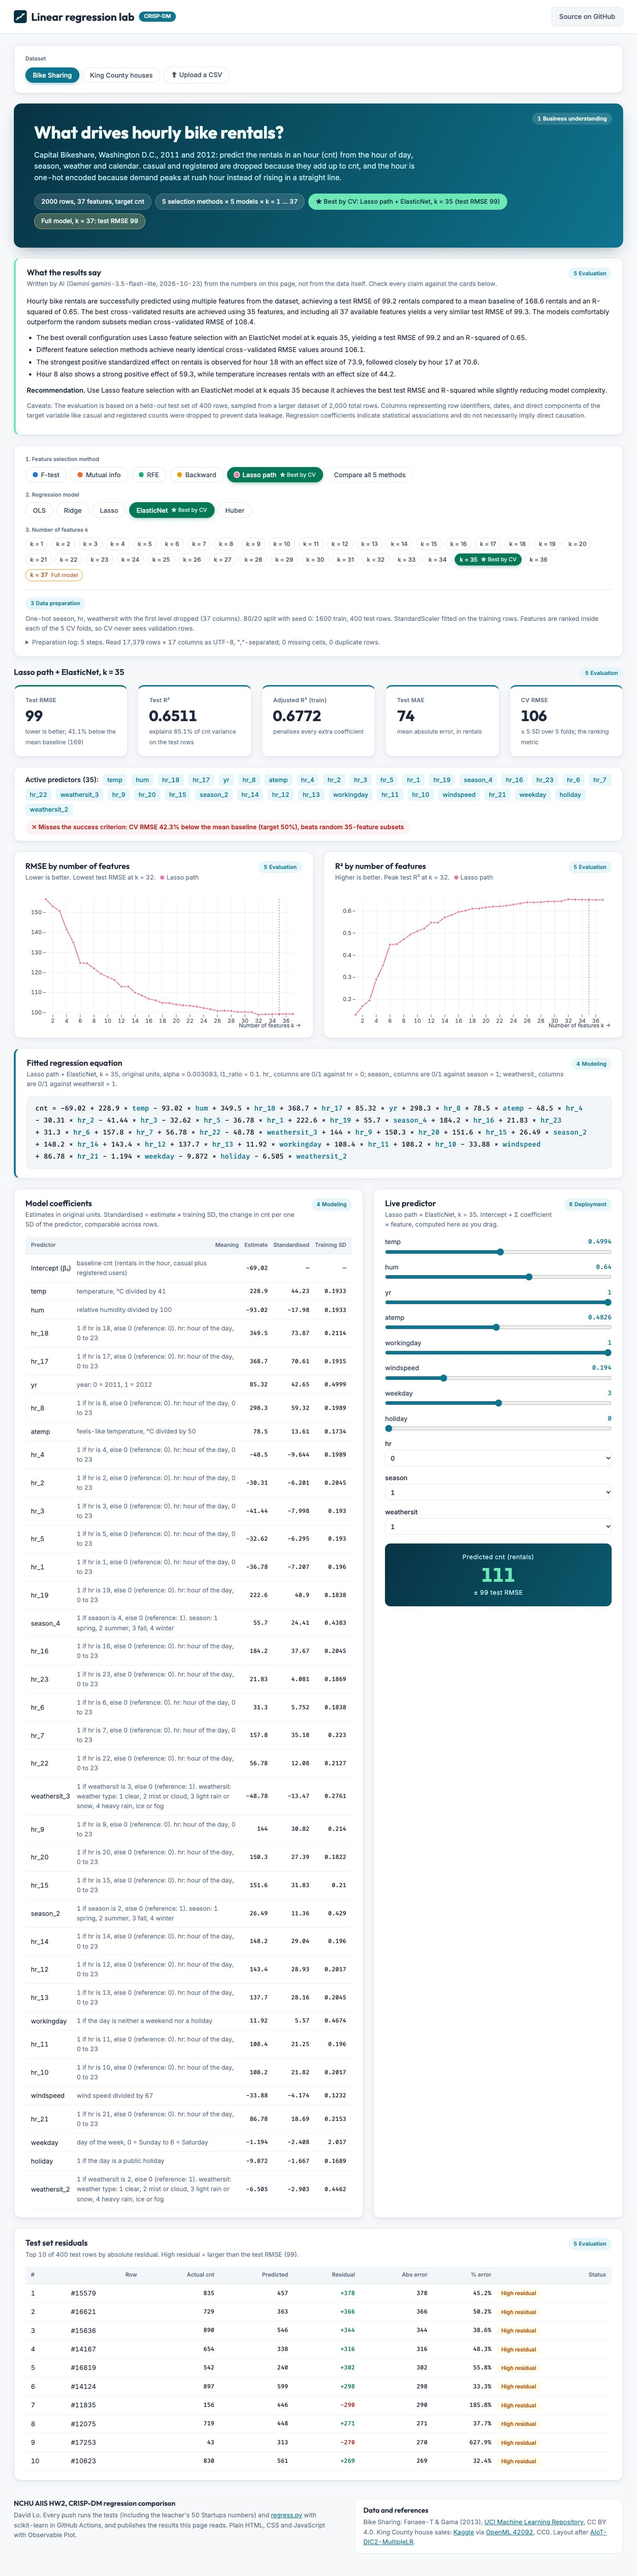
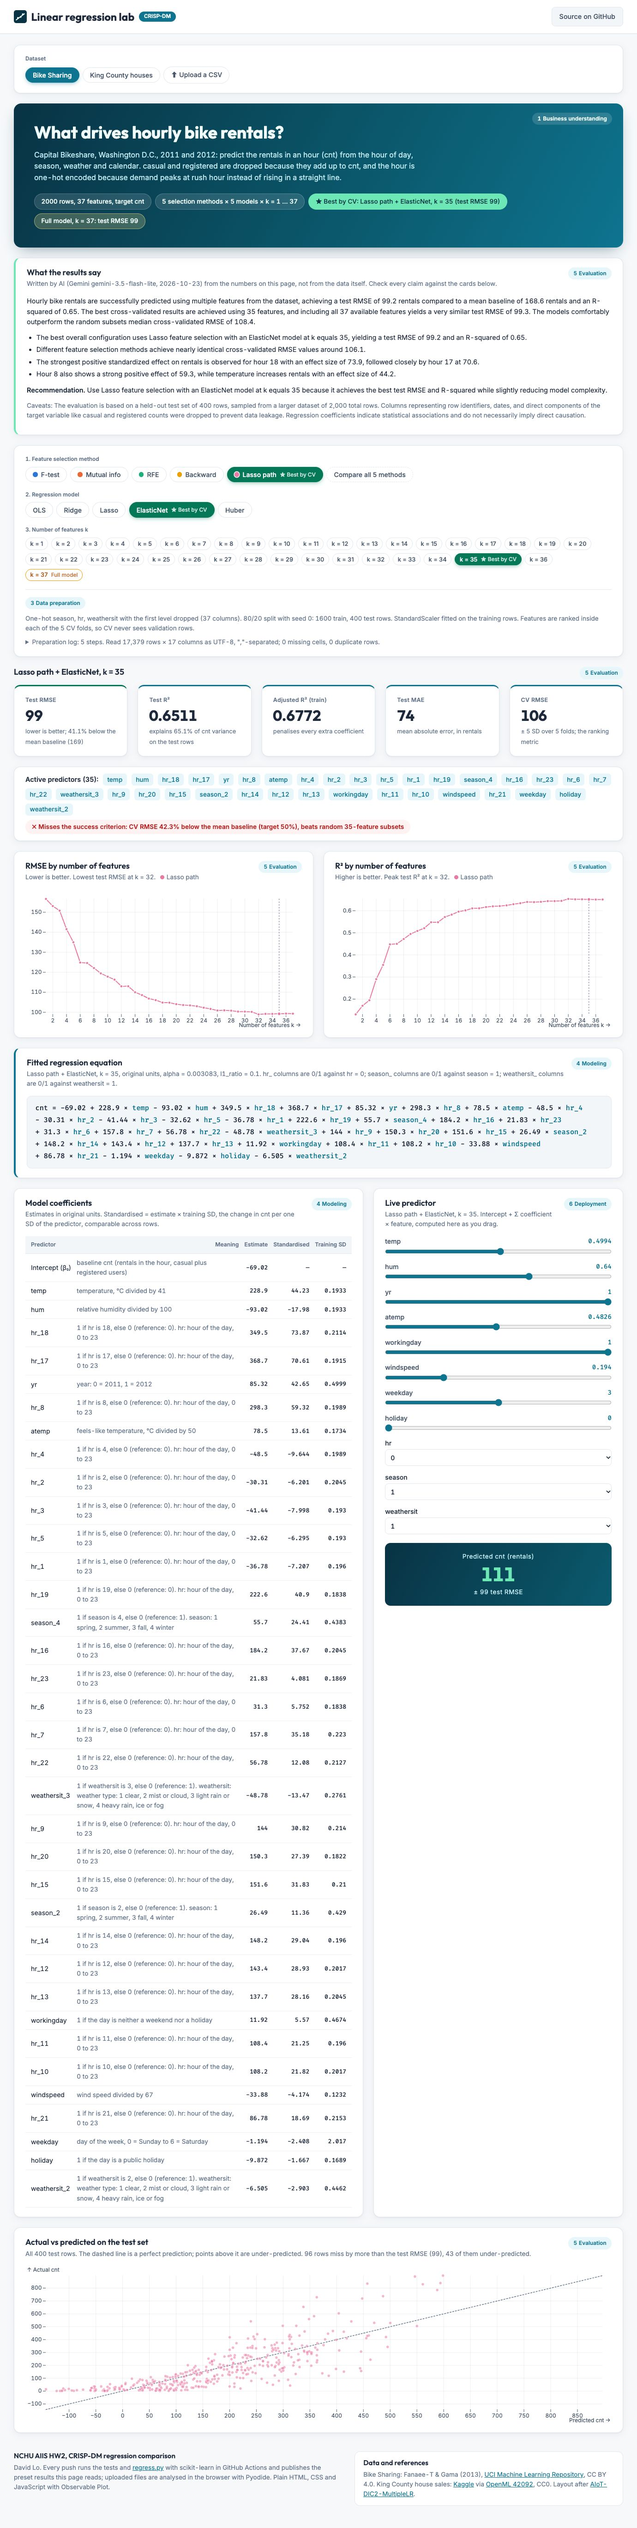
feat: actual vs predicted scatter replaces the ten-row residual table

diff --git a/web/app.js b/web/app.js
@@ -129,11 +129,15 @@ function renderModel(d, a) {
   $("coefs").innerHTML = table(["Predictor", "Meaning", "Estimate", "Standardised", "Training SD"],
     [[td("Intercept (β₀)", "txt"), td(`baseline ${esc(d.target)} (${esc(desc(d.target))})`, "txt muted"), td(sig(a.intercept)), td("—"), td("—")],
       ...a.features.map((n, i) => [td(esc(n), "txt"), td(esc(desc(n)), "txt muted"), td(sig(a.coef[i])), td(sig(a.coef[i] * sd(n))), td(sig(sd(n)))])]);
-  const pts = a.top.map(([row, y, p]) => ({ row, y, p, r: y - p }));   // regress.py keeps the 10 largest residuals
-  $("residNote").textContent = `Top 10 of ${d.meta.n_test} test rows by absolute residual. High residual = larger than the test RMSE (${fmt(a.test_rmse)}).`;
-  $("resid").innerHTML = table(["#", "Row", `Actual ${esc(d.target)}`, "Predicted", "Residual", "Abs error", "% error", "Status"],
-    pts.map((x, i) => [td(i + 1, "txt"), td(`#${x.row}`, "txt"), td(fmt(x.y)), td(fmt(x.p)), td(`<span class="${x.r >= 0 ? "pos" : "neg"}">${x.r >= 0 ? "+" : "−"}${fmt(Math.abs(x.r))}</span>`), td(fmt(Math.abs(x.r))), td(x.y ? pct(Math.abs(x.r / x.y)) : "—"),
-      td(Math.abs(x.r) > a.test_rmse ? `<span class="st hi">High residual</span>` : `<span class="st ok">In range</span>`, "txt")]));
+  // actual vs predicted on every test row; the predictions come from this combination's equation, like the live predictor
+  const idx = a.features.map((n) => feats.indexOf(n));
+  const pts = d.x_test.map((row, i) => { const p = a.intercept + idx.reduce((s, j, t) => s + row[j] * a.coef[t], 0); return { y: d.y_test[i], p, r: d.y_test[i] - p }; });
+  const miss = pts.filter((x) => Math.abs(x.r) > a.test_rmse), under = miss.filter((x) => x.r > 0).length;
+  $("residNote").textContent = `All ${pts.length} test rows. The dashed line is a perfect prediction; points above it are under-predicted. ${miss.length} rows miss by more than the test RMSE (${fmt(a.test_rmse)}), ${under} of them under-predicted.`;
+  const all = pts.flatMap((x) => [x.y, x.p]), lo = Math.min(...all), hi = Math.max(...all);
+  chart($("resid"), (w) => Plot.plot({ width: w, height: 340, marginLeft: ml(), style: style(), grid: true, x: { label: `Predicted ${d.target}` }, y: { label: `Actual ${d.target}` },
+    marks: [Plot.line([[lo, lo], [hi, hi]], { stroke: C.ink3, strokeDasharray: "3 3" }),
+      Plot.dot(pts, { x: "p", y: "y", r: 3, fill: C.m[a.method] || C.accent, fillOpacity: 0.55, stroke: C.card, strokeWidth: 0.5, tip: true, title: (x) => `actual ${fmt(x.y)}\npredicted ${fmt(x.p)}\nresidual ${x.r >= 0 ? "+" : "−"}${fmt(Math.abs(x.r))}` })] }));
 }
 
 // ── live predictor: the linear equation evaluated in the browser ─────────────

diff --git a/web/index.html b/web/index.html
@@ -85,7 +85,7 @@
       <section class="card"><header><div><h3>Live predictor</h3><p class="muted" id="deployNote"></p></div><span class="phase"><b>6</b>Deployment</span></header><form class="whatif" id="whatif"></form><div class="prediction" id="prediction" aria-live="polite"></div></section>
     </div>
 
-    <section class="card"><header><div><h3>Test set residuals</h3><p class="muted" id="residNote"></p></div><span class="phase"><b>5</b>Evaluation</span></header><div class="table-wrap" id="resid"></div></section>
+    <section class="card"><header><div><h3>Actual vs predicted on the test set</h3><p class="muted" id="residNote"></p></div><span class="phase"><b>5</b>Evaluation</span></header><div class="chart" id="resid"></div></section>
   </main>
 
   <footer class="wrap">

diff --git a/web/style.css b/web/style.css
@@ -98,10 +98,6 @@ th:first-child, td:first-child { padding-left: .75rem; }
 th:first-child, td:first-child, .txt { text-align: left; }
 td.num { font-family: var(--mono); font-size: .82rem; }
 td.muted { white-space: normal; max-width: 24rem; padding-right: 1rem; }
-.st { font-size: .74rem; font-weight: 600; border-radius: 999px; padding: .15rem .6rem; }
-.st.hi { background: var(--warn-soft); color: var(--warn); }
-.st.ok { background: var(--good-soft); color: var(--good); }
-.pos { color: var(--good); } .neg { color: var(--bad); }
 
 /* equation, predictor */
 .equation { border-left: 4px solid var(--accent); }

diff --git a/web/regress.py b/web/regress.py
@@ -505,7 +505,6 @@ def run(data, plan=None, progress=None, spec=None):
         b0 = float(est.intercept_ - (coef * sc.mean_[f]).sum())
         pred_te, pred_tr = Xte[:, f] @ coef + b0, Xtr[:, f] @ coef + b0
         r2_tr, nz = r2_score(ytr, pred_tr), int(np.count_nonzero(np.abs(coef) > 1e-12))
-        worst = np.argsort(-np.abs(yte - pred_te), kind="stable")[:10]
         combos.append(dict(
             method=m, k=k, model=name, features=[cols[i] for i in f],
             cv_rmse=float(np.mean(cv[m, k, name])), cv_std=float(np.std(cv[m, k, name])),
@@ -514,7 +513,6 @@ def run(data, plan=None, progress=None, spec=None):
             adj_r2=float(1 - (1 - r2_tr) * (n - 1) / (n - nz - 1)) if n - nz - 1 > 0 else None,
             hyper={h: float(getattr(est, h + "_", getattr(est, h, 0))) for h in HYPER[name]},
             coef=coef.tolist(), intercept=b0,
-            top=[[int(raw.index[te[i]]), float(yte[i]), float(f"{pred_te[i]:.6g}")] for i in worst],   # 殘差最大的 10 筆測試列
             **({"failed": est.failed} if hasattr(est, "failed") else {})))
 
     spec = {"name": "Uploaded data", "title": f"What drives {target}?", "lede": "", "unit": "",
@@ -530,7 +528,8 @@ def run(data, plan=None, progress=None, spec=None):
                   ranges={c: [float(v) for v in np.percentile(Xn[:, cols.index(c)], [0, 50, 100])] for c in numeric},
                   train_sd=sc.scale_.tolist(),
                   missing=int(df.isna().sum().sum()), duplicates=int(df.duplicated().sum())),
-        combos=combos, bench=benchmarks(Xtr, ytr, Xte, yte, folds))
+        combos=combos, bench=benchmarks(Xtr, ytr, Xte, yte, folds),
+        x_test=[[float(f"{v:.6g}") for v in r] for r in Xte], y_test=[float(v) for v in yte])   # 測試列：頁面用每個組合的係數算預測值，畫實際值對預測值
     res["summary_input"] = summary_input(res)
     return res
 
